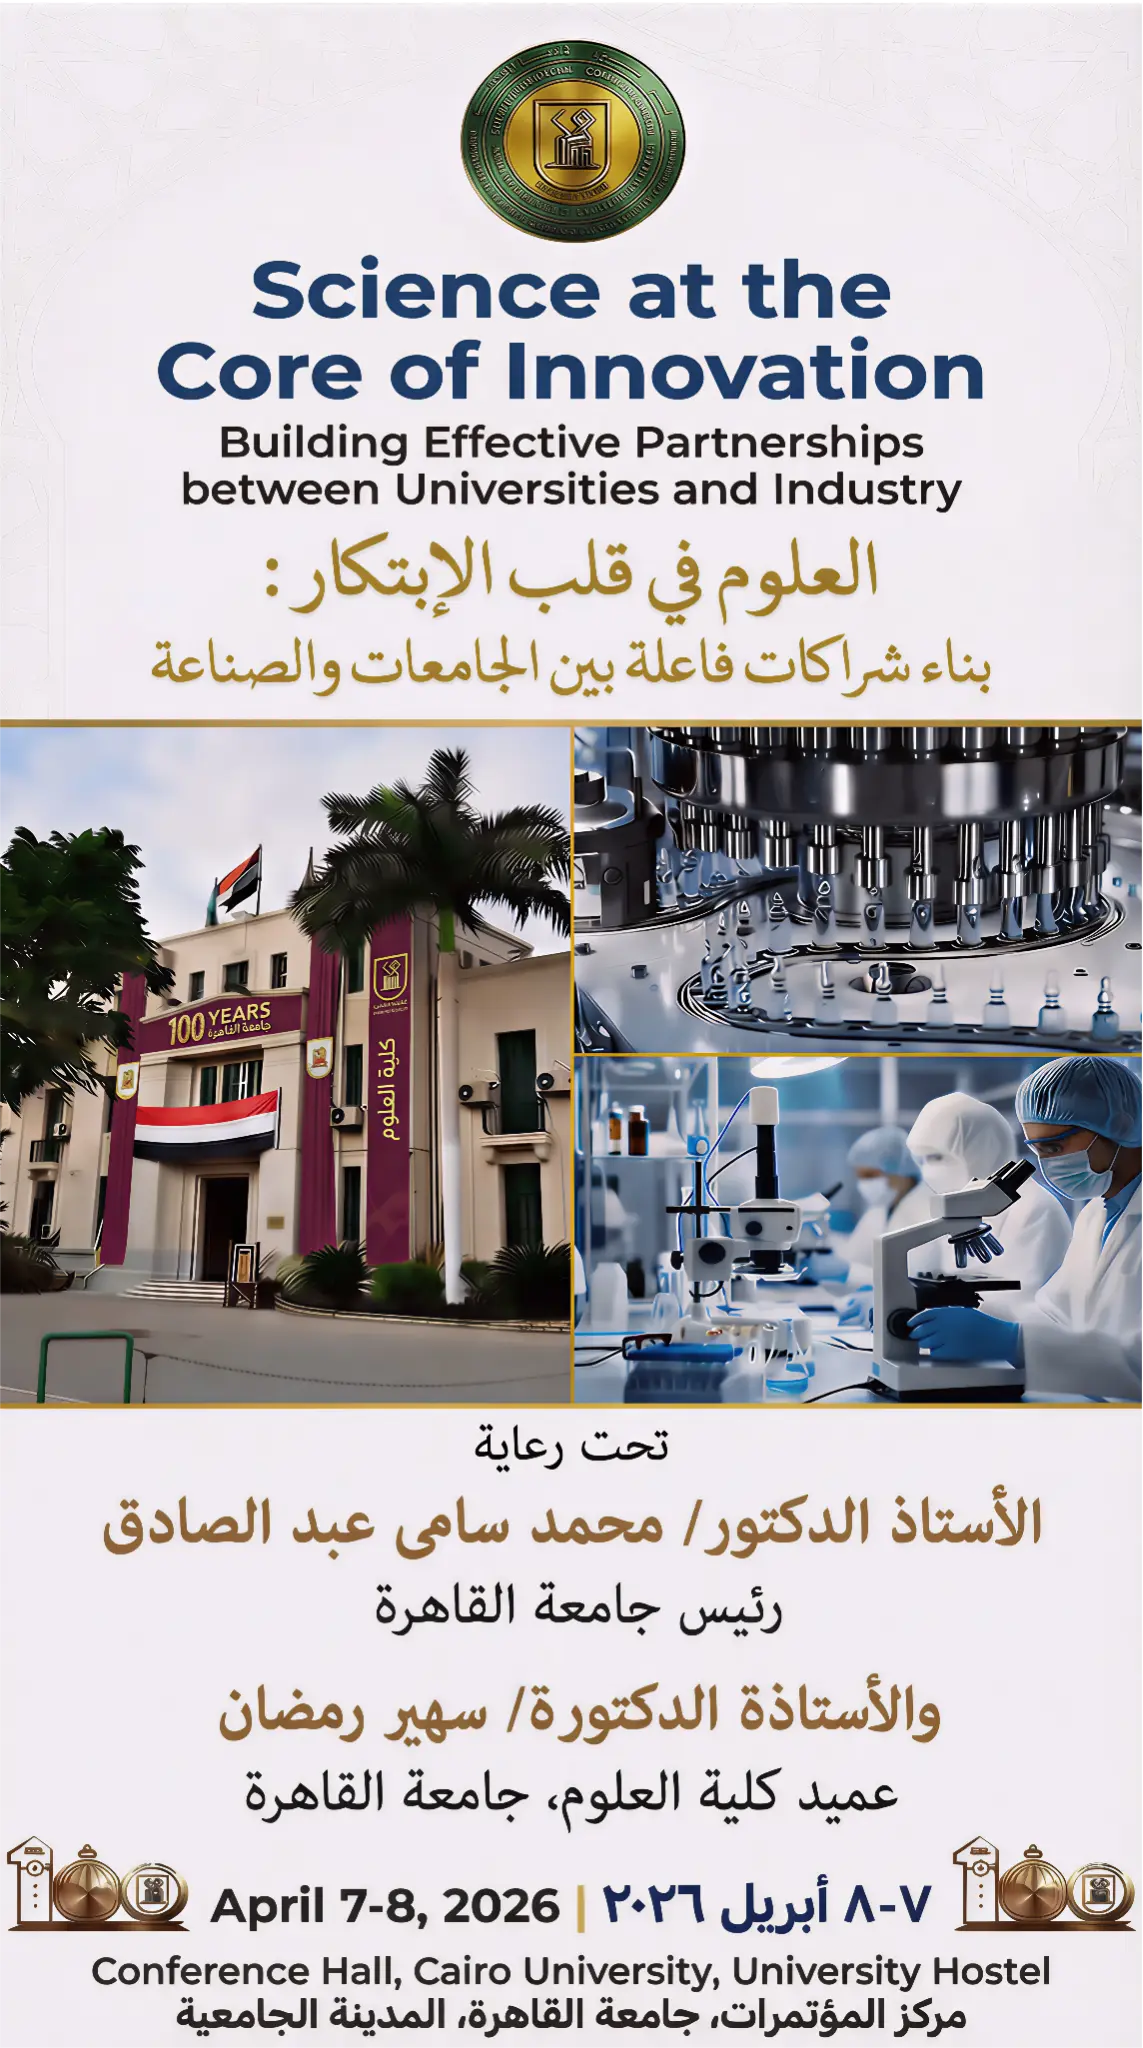
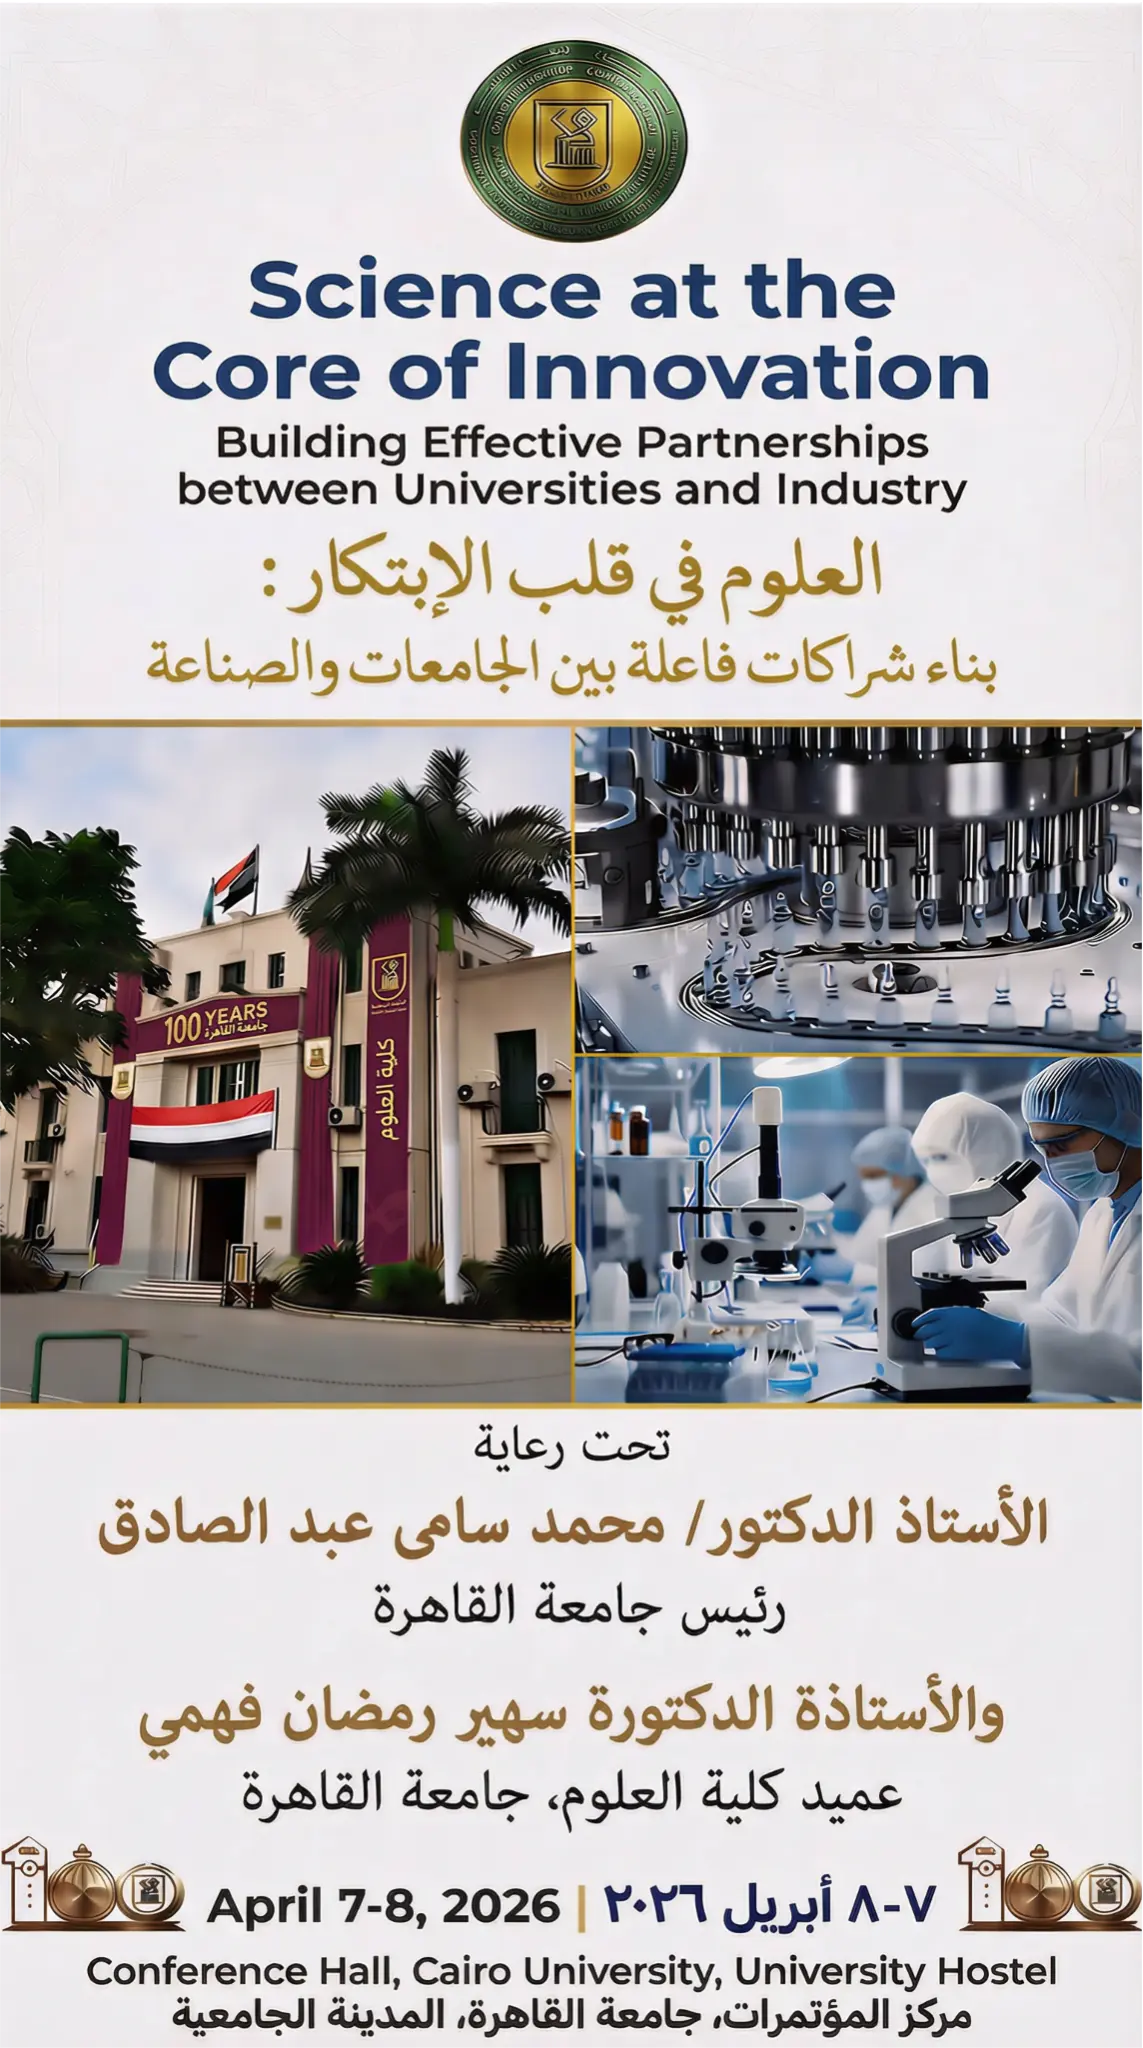
Checkpoint: Updated conference poster with dean's full name
Replaced the conference poster with the latest version that displays the dean's full name "الأستاذة الدكتورة/ سهير رمضان فهمي" (Prof. Soheir Ramadan Fahmy) instead of the shortened version, while maintaining all other correct information including the president's full name and the 100 years celebration banner.

diff --git a/todo.md b/todo.md
@@ -303,3 +303,6 @@
 
 ### Update Conference Flyer (Complete Version)
 - [x] Replace flyer with complete version showing 100 years celebration banner
+
+### Update Conference Poster (Dean Full Name)
+- [x] Replace poster with version showing dean's full name "سهير رمضان فهمي"
